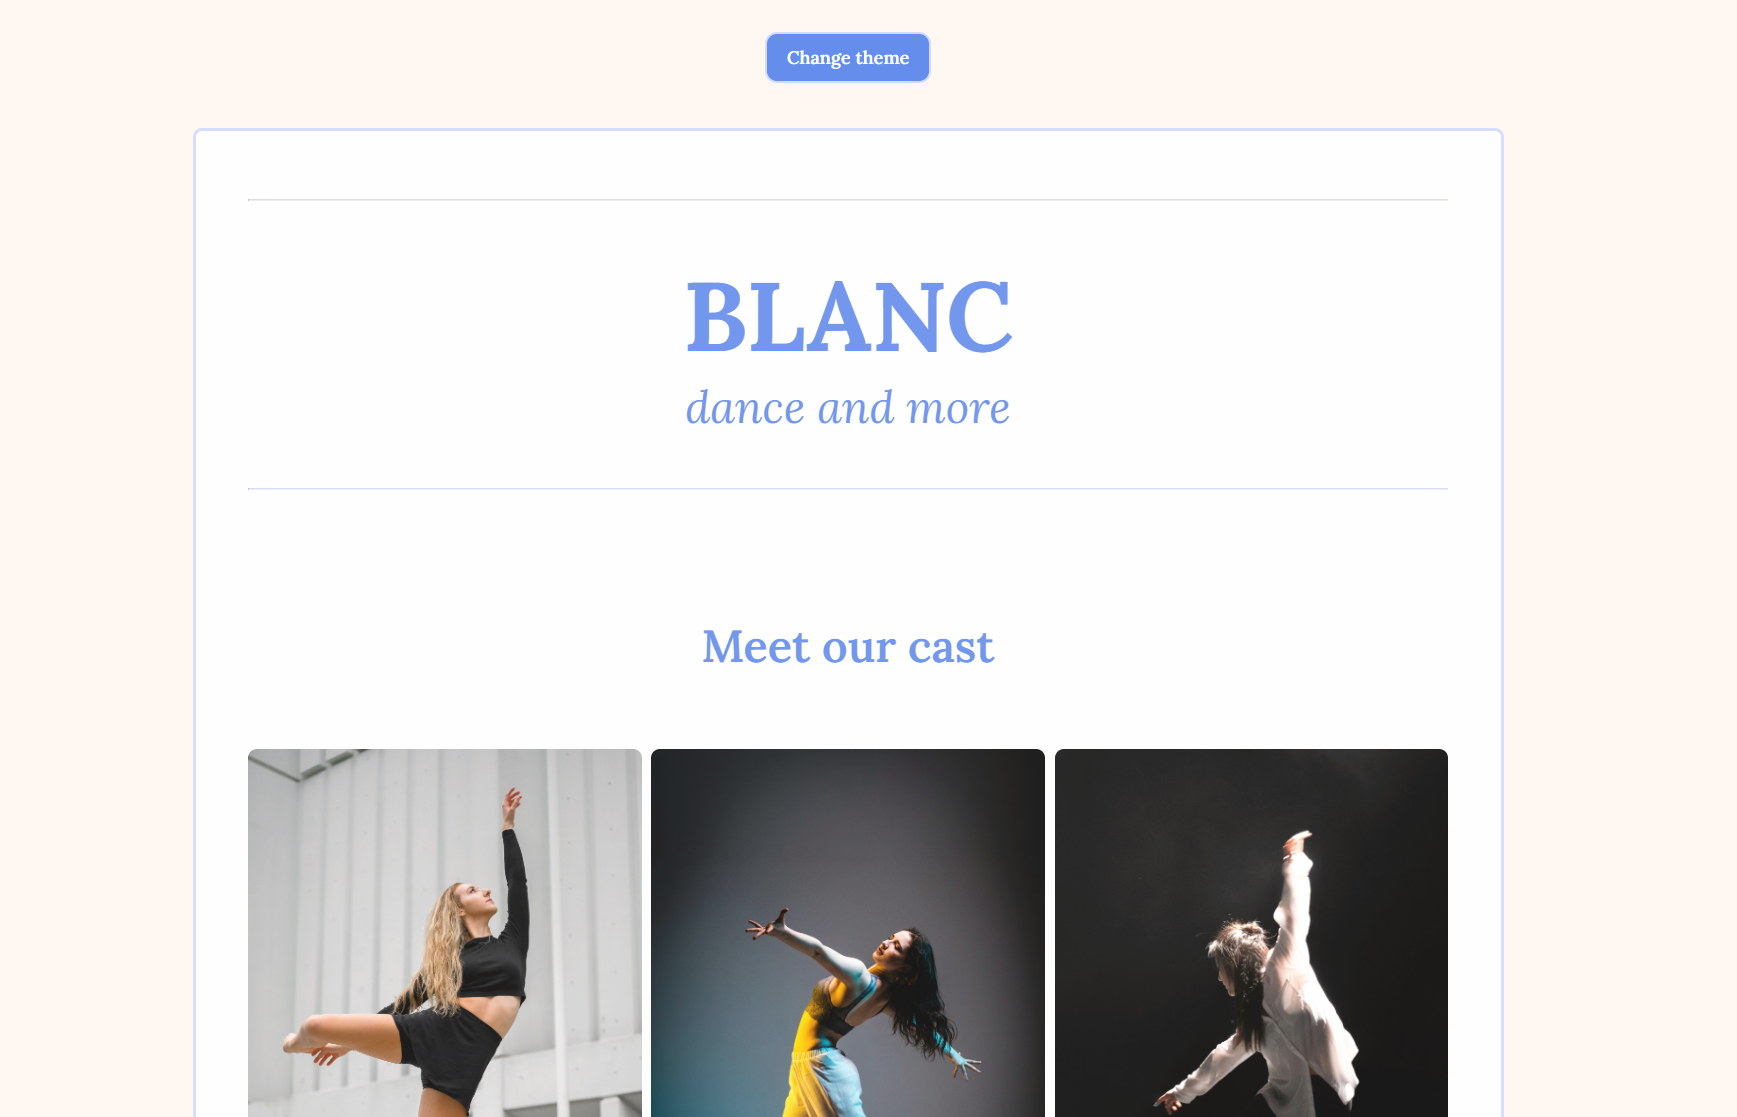
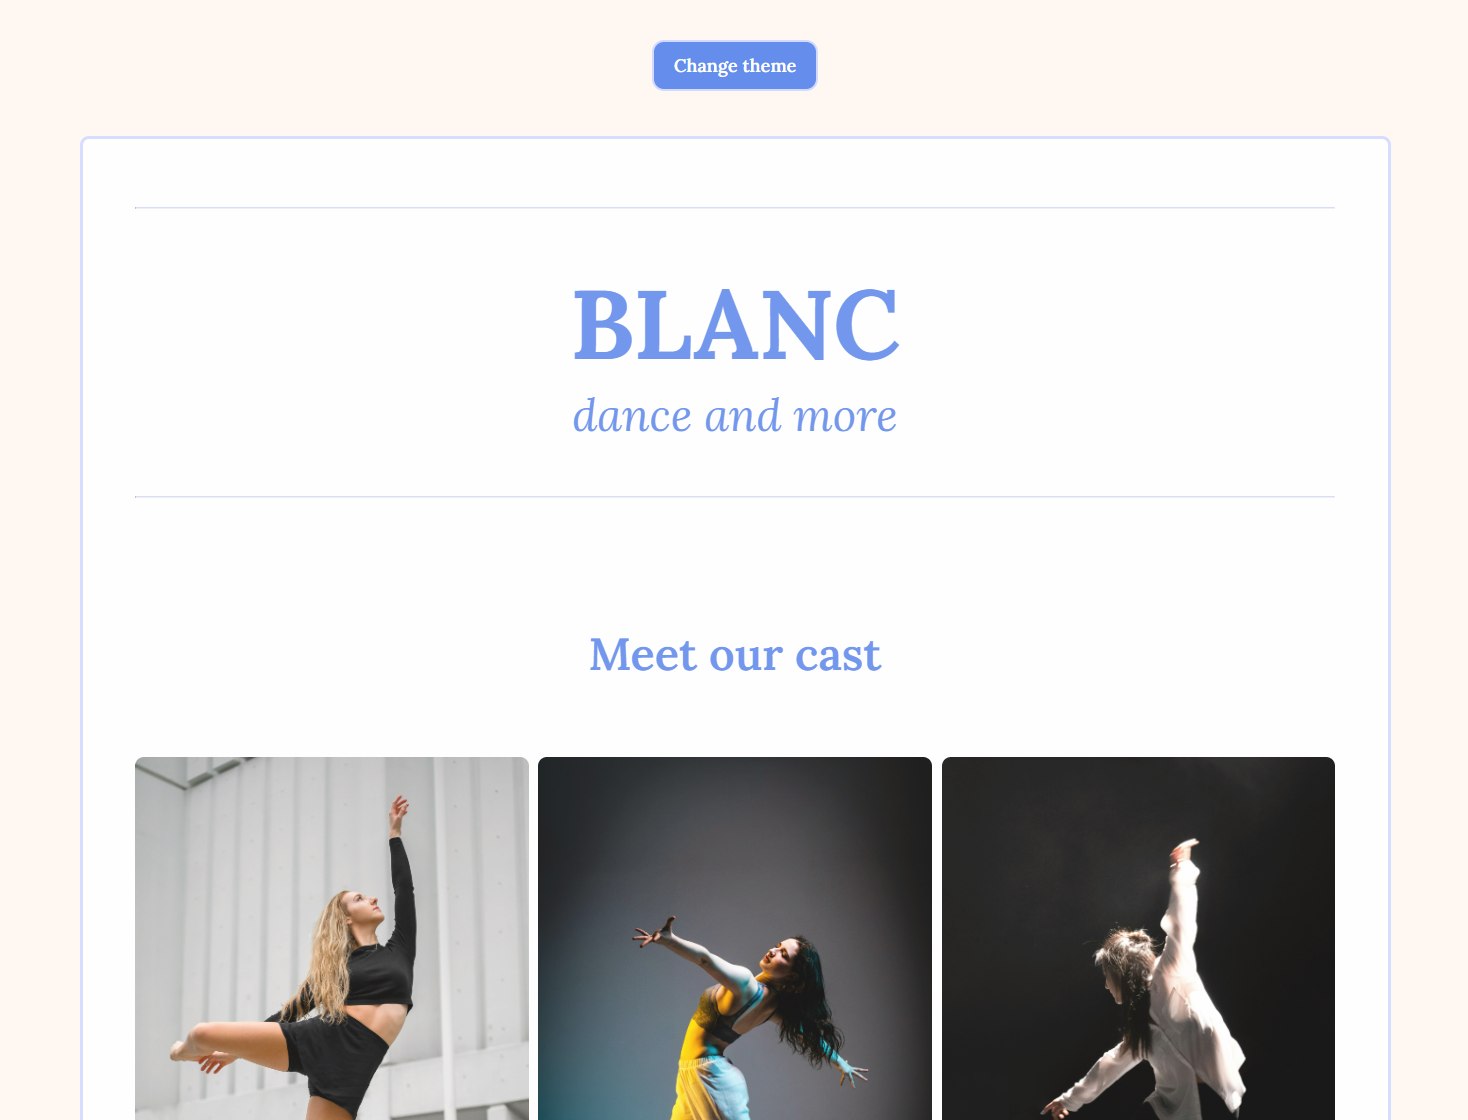
Added work.html, updated css and responsiveness

diff --git a/work.html b/work.html
@@ -1,0 +1,82 @@
+<!DOCTYPE html>
+<html lang="en">
+  <head>
+    <meta charset="UTF-8" />
+    <meta name="viewport" content="width=>, initial-scale=1.0" />
+    <link
+      href="https://cdn.jsdelivr.net/npm/bootstrap@5.3.3/dist/css/bootstrap.min.css"
+      rel="stylesheet"
+      integrity="sha384-QWTKZyjpPEjISv5WaRU9OFeRpok6YctnYmDr5pNlyT2bRjXh0JMhjY6hW+ALEwIH"
+      crossorigin="anonymous"
+    />
+    <script
+      src="https://cdn.jsdelivr.net/npm/bootstrap@5.3.3/dist/js/bootstrap.bundle.min.js"
+      integrity="sha384-YvpcrYf0tY3lHB60NNkmXc5s9fDVZLESaAA55NDzOxhy9GkcIdslK1eN7N6jIeHz"
+      crossorigin="anonymous"
+    ></script>
+    <link rel="stylesheet" href="src/styles.css" />
+    <link rel="preconnect" href="https://fonts.googleapis.com" />
+    <link rel="preconnect" href="https://fonts.gstatic.com" crossorigin />
+    <link
+      href="https://fonts.googleapis.com/css2?family=Edu+NSW+ACT+Foundation:wght@400..700&family=Merriweather:ital,wght@0,300;0,400;0,700;0,900;1,300;1,400;1,700;1,900&family=Molengo&family=Poly:ital@0;1&family=Poppins:ital,wght@0,100;0,200;0,300;0,400;0,500;0,600;0,700;0,800;0,900;1,100;1,200;1,300;1,400;1,500;1,600;1,700;1,800;1,900&family=Roboto+Mono:ital,wght@0,100..700;1,100..700&display=swap"
+      rel="stylesheet"
+    />
+    <script
+      src="https://kit.fontawesome.com/69bc22f110.js"
+      crossorigin="anonymous"
+    ></script>
+    <title>Project portfolio - Rachèl van Dijkhorst</title>
+  </head>
+  <body>
+    <div class="container p-5">
+      <h1 class="about-section pt-5 ps-4">
+        Take a look at my project portfolio...
+      </h1>
+      <div class="projects-container">
+        <div class="row">
+          <hr />
+          <div class="col-md-6 p-4">
+            <img src="media/Poem.png" class="img-fluid pb-4 pt-4" />
+            <h6 class="small-title">AI poem generator</h6>
+            <p class="text-center text-muted">
+              Integrated the SheCodes AI to generate poems. Made with HTML, CSS
+              and Javascript.
+            </p>
+          </div>
+          <div class="col-md-6 p-4">
+            <img src="media/clock.png" class="img-fluid rounded pb-4 pt-4" />
+            <h6 class="small-title">World Clock</h6>
+            <p class="text-center text-muted">
+              Integrated Axios and the Moment.js and Moment Timezone API to
+              include current time information accross different locations. Made
+              with HTML, CSS and Javascript.
+            </p>
+          </div>
+        </div>
+        <div class="row">
+          <div class="col-md-6 p-4">
+            <img src="media/weather.png" class="img-fluid rounded pb-4 pt-4" />
+            <h6 class="small-title">Weather Application</h6>
+            <p class="text-center text-muted">
+              Integrated Axios and the SheCodes Weather API to display the
+              weather forcast for the entered location. Made with HTML, CSS and
+              Javascript.
+            </p>
+          </div>
+          <div class="col-md-6 p-4">
+            <img src="media/blanc.png" class="img-fluid rounded pb-4 pt-4" />
+            <h6 class="small-title">Dance Ensemble Website</h6>
+            <p class="text-center text-muted">
+              Incorporated a dark mode to modify the look and feel of the
+              website. Made with HTML, CSS and Javascript.
+            </p>
+          </div>
+        </div>
+        <div class="row">
+          <div class="col-md-6"></div>
+          <div class="col-md-6"></div>
+        </div>
+      </div>
+    </div>
+  </body>
+</html>

diff --git a/index.html b/index.html
@@ -35,7 +35,7 @@
         <h4>Front-end developer based in the Netherlands</h4>
       </div>
       <div class="mt-5 pt-5">
-        <a href="/about.html" class="hero-button button">About me</a
+        <a href="about.html" class="hero-button button">About me</a
         ><a href="#" class="hero-button button">Contact me</a>
       </div>
     </div>
@@ -47,7 +47,7 @@
         </div>
         <div class="col-md-6 project-info">
           <h3>AI poem generator</h3>
-          <p class="text-muted ms-3">
+          <p class="text-muted mx-3">
             Lorem ipsum dolor sit amet, consectetur adipiscing elit, sed do
             eiusmod tempor incididunt ut labore et dolore magna aliqua. Ut enim
             ad minim veniam, quis nostrud exercitation ullamco laboris nisi ut
@@ -57,7 +57,12 @@
             culpa qui officia deserunt mollit anim id est laborum.
           </p>
           <div class="project-button">
-            <a class="button button-inverse" href="#">Learn more</a>
+            <a
+              class="button button-inverse"
+              href="https://poem-generator-by-rachel.netlify.app/"
+              target="_blank"
+              >Check it out</a
+            >
           </div>
         </div>
       </div>
@@ -65,7 +70,7 @@
         <div class="col-md-6 project-info">
           <h3>World Clock</h3>
 
-          <p class="text-muted ms-3">
+          <p class="text-muted mx-3">
             Lorem ipsum dolor sit amet, consectetur adipiscing elit, sed do
             eiusmod tempor incididunt ut labore et dolore magna aliqua. Ut enim
             ad minim veniam, quis nostrud exercitation ullamco laboris nisi ut
@@ -76,7 +81,12 @@
           </p>
 
           <div class="project-button">
-            <a class="button button-inverse" href="#">Learn more</a>
+            <a
+              class="button button-inverse"
+              href="https://world-clock-by-rachel.netlify.app/"
+              target="_blank"
+              >Check it out</a
+            >
           </div>
         </div>
         <div class="col d-none d-md-block">
@@ -89,7 +99,7 @@
         </div>
         <div class="col-md-6 project-info">
           <h3>Weather application</h3>
-          <p class="text-muted ms-3">
+          <p class="text-muted mx-3">
             Lorem ipsum dolor sit amet, consectetur adipiscing elit, sed do
             eiusmod tempor incididunt ut labore et dolore magna aliqua. Ut enim
             ad minim veniam, quis nostrud exercitation ullamco laboris nisi ut
@@ -99,7 +109,12 @@
             culpa qui officia deserunt mollit anim id est laborum.
           </p>
           <div class="project-button">
-            <a class="button button-inverse" href="#">Learn more</a>
+            <a
+              class="button button-inverse"
+              href="https://weather-application-from-rachel.netlify.app/"
+              target="_blank"
+              >Check it out</a
+            >
           </div>
         </div>
       </div>

diff --git a/src/styles.css b/src/styles.css
@@ -54,6 +54,18 @@ h6 {
 p {
   padding-right: 40px;
 }
+
+img {
+  border-radius: 10px;
+  border: 1.8 solid var(--text-color);
+}
+
+.small-title {
+  font-weight: 500;
+  font-size: large;
+  margin-bottom: 7px;
+  margin-top: 8px;
+}
 .hero {
   text-align: center;
   margin: 0 auto 60px auto;
@@ -140,7 +152,19 @@ p.about-section {
 }
 
 .about-content {
-  padding-right: 2px;
+  padding-right: 10px;
+}
+
+.projects-container {
+  padding-top: 60px;
+}
+
+.about-button {
+  margin: 100px;
+}
+
+.text-end {
+  text-align: right;
 }
 
 @media (min-width: 1250px) {
@@ -149,7 +173,7 @@ p.about-section {
   }
 }
 
-@media (max-width: 900px) {
+@media (max-width: 960px) {
   .project-button {
     margin-left: 0;
   }
@@ -164,12 +188,27 @@ p.about-section {
   h3 {
     margin-top: 0;
   }
+
+  .rachel {
+    display: flex;
+    margin-top: 70px;
+  }
+
+  .about-button {
+    margin: 0 auto;
+  }
 }
 
 @media (max-width: 750px) {
   .project-info {
     text-align: center;
     margin-left: 0;
+  }
+  .about-button {
+    margin: 0px;
+  }
+  .rachel {
+    margin-top: 70px;
   }
 }
 
@@ -190,19 +229,29 @@ p.about-section {
     margin-bottom: 30px;
   }
 
+  .rachel {
+    margin-top: 70px;
+  }
+
   .hero {
     padding: 100px 30px;
   }
   .hero-button {
     margin: 0 10px;
+    font-size: 14px;
   }
 
   .project-button {
     margin-bottom: 22px;
   }
 
+  .about-button {
+    margin: 0px;
+  }
+
   p {
-    padding: 0 12px;
+    padding: 0 0px;
+    margin-left: 0px;
   }
   .project-info {
     margin-left: 0;

diff --git a/about.html b/about.html
@@ -30,7 +30,7 @@
   <body>
     <div class="container p-5">
       <div class="row about-wrapper">
-        <div class="col-md-6">
+        <div class="col-lg">
           <h1 class="about-section">Hi, I am <br />Rachèl van Dijkhorst</h1>
           <h5 class="about-section">
             "As a fish trying to climb trees, I've finally found my water..."
@@ -53,16 +53,16 @@
               just being cozy overal while pondering about all the wonders in
               this world.
             </p>
-            <div class="mt-5 pt-4 ms-5 ps-4">
-              <a href="#" class="button">View my projects</a>
+            <div class="mt-5 pt-4 about-button">
+              <a href="/work.html" class="button">View my projects</a>
             </div>
           </div>
         </div>
-        <div class="col-md-6 text-end">
+        <div class="col-lg text-end">
           <img
             src="media/portret.png"
             alt="#"
-            class="img-fluid rounded"
+            class="img-fluid rounded rachel"
             width="500"
           />
         </div>
